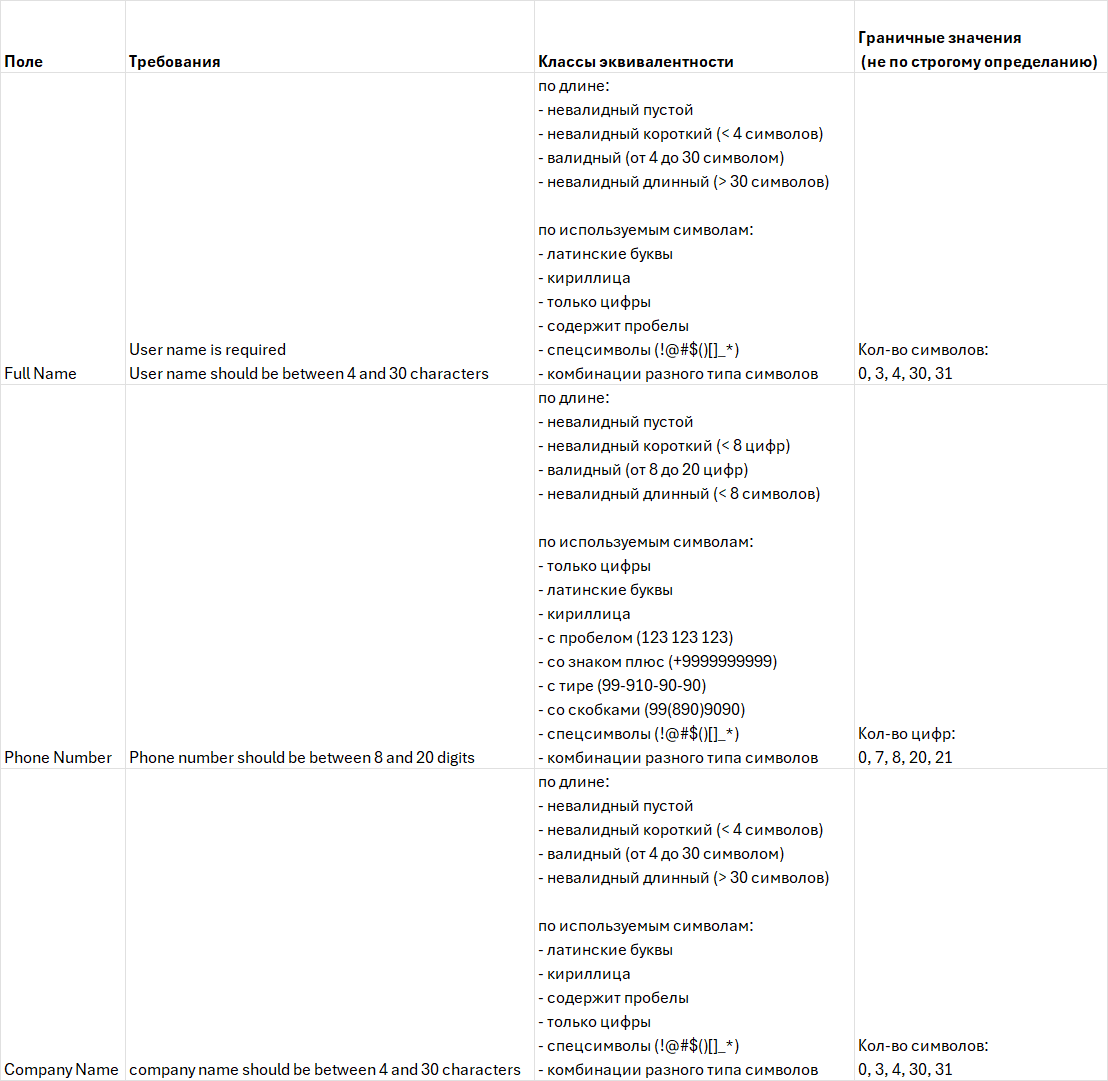
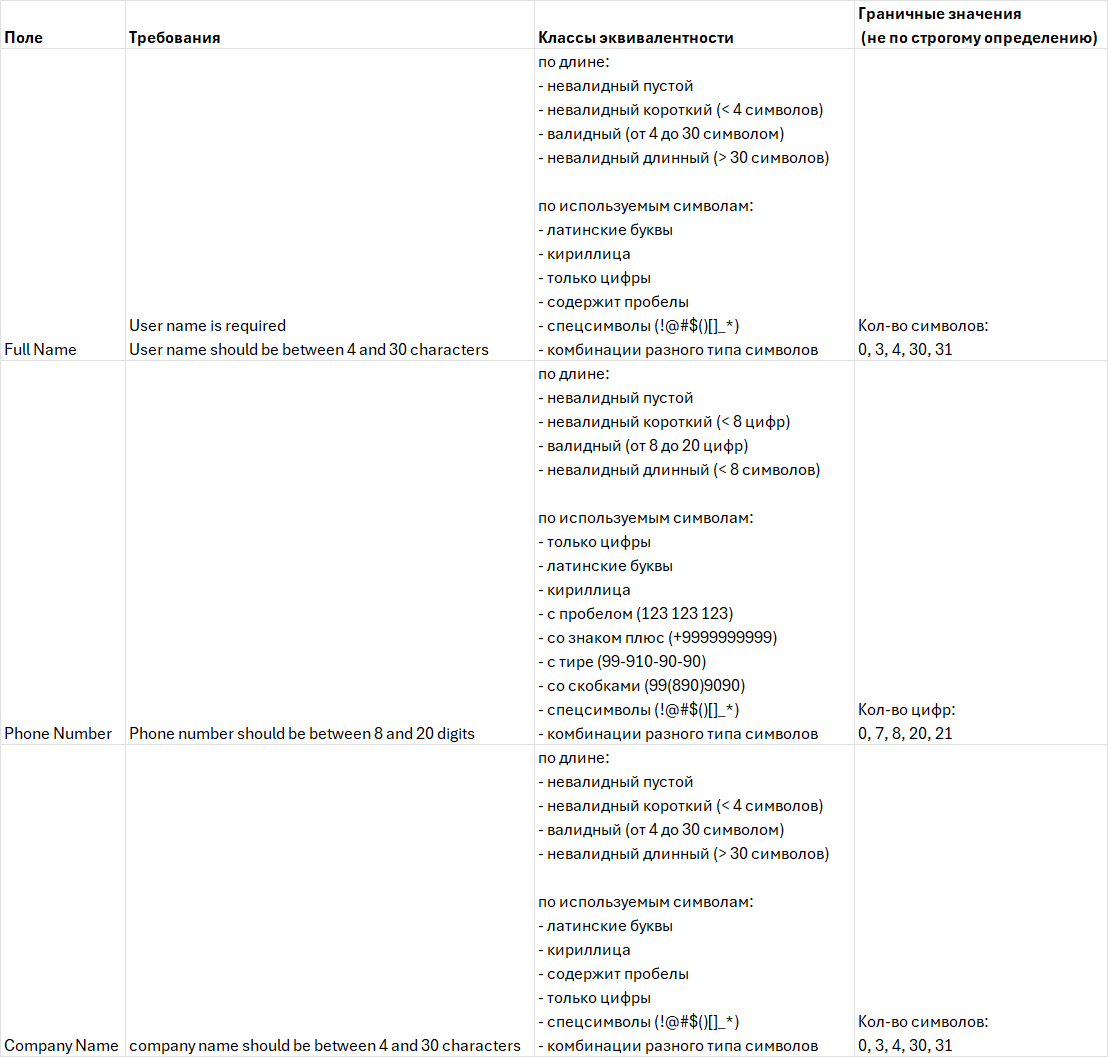
fix readme

diff --git a/README.md b/README.md
@@ -274,4 +274,5 @@ stateDiagram-v2
 ## GitHub Actions 
 - настроен запуск тестов с GitHub Actions
 - можно запустить тесты отдельно api и ui 
-- уведомление о выполнении приходит через телеграм бота с итоговым результатом и ссылкой на отчёт в Allure
+- уведомление о выполнении приходит через телеграм бота с итоговым результатом и ссылкой на [отчёт в Allure](https://marinabulantsova.github.io/TestNotesApp/)
+![img_1.png](.github/assets/img_6.png)
